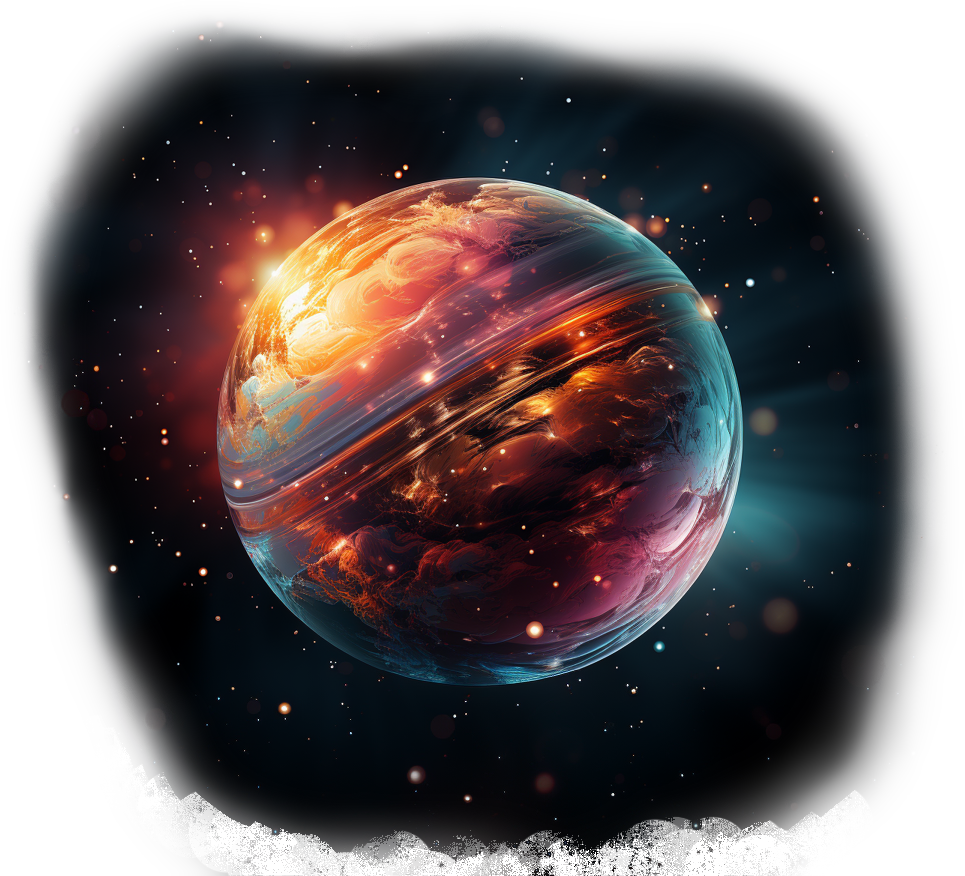
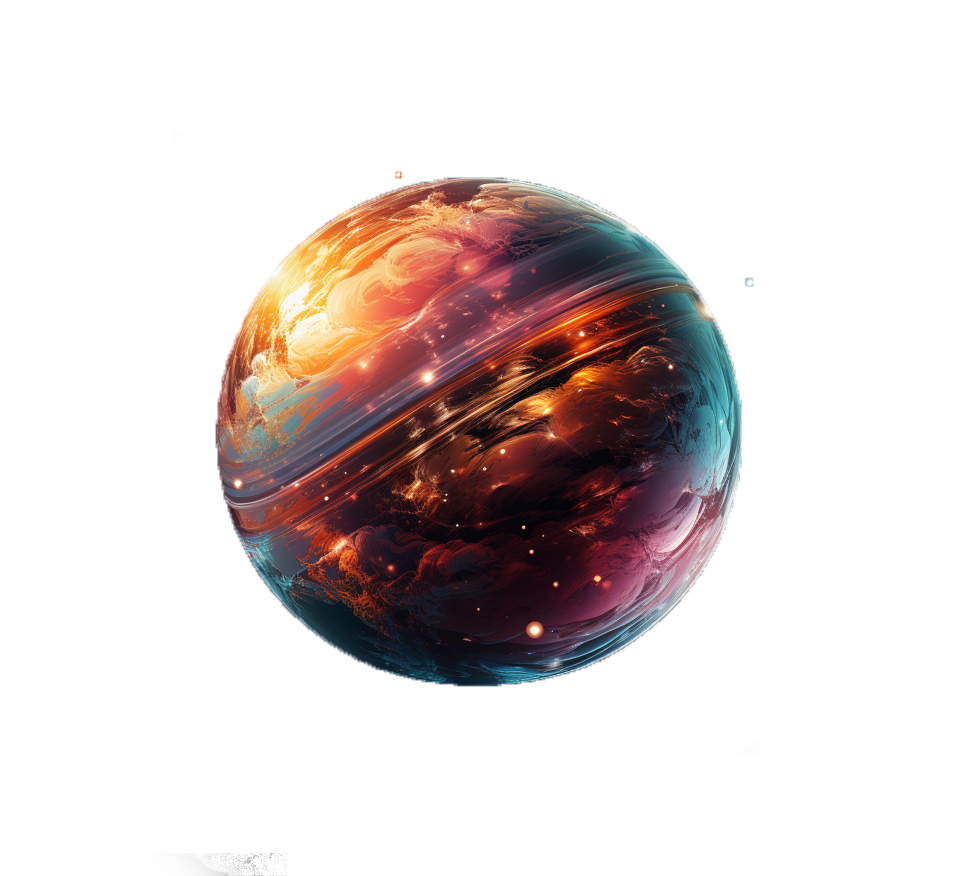
add parralaxe dynam + generic planet rotation

diff --git a/src/components/starrySky/StarrySky.js b/src/components/starrySky/StarrySky.js
@@ -3,7 +3,9 @@ import "./StarrySky.css";
 import "./letterPositions.css";
 import { gsap } from "gsap";
 
-import starrySkyBg from "./assets/starrySkyBg.jpg";
+import starrySkyBg from "./assets/starrySkyBg.png";
+import ParallaxElement from "../ParallaxElements/ParallaxElements.js";
+import { ScrollTrigger } from "gsap/ScrollTrigger";
 
 import scrumS from "./assets/letters/scrumS.png";
 import scrumC from "./assets/letters/scrumC.png";
@@ -33,6 +35,12 @@ import planet2 from "./assets/planets/planet2.png";
 import planet3 from "./assets/planets/planet3.png";
 import planet4 from "./assets/planets/planet4.png";
 import planet5 from "./assets/planets/planet5.png";
+import planet6 from "./assets/planets/planet6.png";
+import planet7 from "./assets/planets/planet7.png";
+import planet8 from "./assets/planets/planet8.png";
+import planet9 from "./assets/planets/planet9.png";
+import planet10 from "./assets/planets/planet10.png";
+import planet11 from "./assets/planets/planet11.png";
 import cloudsBigPlanet from "./assets/planets/cloudsBigPlanet.png";
 
 import rings1 from "./assets/rings1.png";
@@ -44,6 +52,8 @@ console.log("starrySky.js loaded");
 
 const StarrySky = () => {
   useEffect(() => {
+    gsap.registerPlugin(ScrollTrigger);
+
     const asteroidAnimations = [
       { className: ".asteroides1", duration: 50 },
       { className: ".asteroides2", duration: 15 },
@@ -71,30 +81,43 @@ const StarrySky = () => {
           gsap.set(`${animation.className}-clone`, { x: "0vw" });
         },
       });
-
-      // Pour les nuages
-      // Durée de l'animation pour les nuages
-      const cloudsDuration = 10; // Ajustez selon votre besoin
-
-      // const animateClouds = (className) => {
-      //   gsap.to(className, {
-      //     x: `+=100%`,
-      //     repeat: -1,
-      //     ease: "none",
-      //     duration: cloudsDuration,
-      //   });
-      // };
-
-      // animateClouds(".cloudsBigPlanet");
-      // animateClouds(".cloudsBigPlanet-leftClone");
-      // animateClouds(".cloudsBigPlanet-rightClone");
     });
 
+    // GSAP animation for bigPlanet
     gsap.to(".bigPlanet", {
-      rotation: 360,
-      repeat: -1,
-      ease: "none",
-      duration: 120,
+      y: "-70%",
+      scrollTrigger: {
+        trigger: ".bigPlanet",
+        start: "top bottom",
+        end: "bottom center",
+        scrub: true, // Activer l'effet de défilement en douceur
+      },
+    });
+
+    // Associez chaque planète à sa vitesse de rotation en utilisant un objet
+    const rotationSpeeds = {
+      planet1: 5,
+      planet2: 5,
+      planet3: 5,
+      planet4: 5,
+      planet5: 5,
+      planet6: 5,
+      planet7: 5,
+      planet8: 5,
+      planet9: 5,
+      planet10: 5,
+      planet11: 5,
+      bigPlanet: 50,
+    };
+
+    // GSAP animation de rotation pour les planètes
+    Object.entries(rotationSpeeds).forEach(([planet, rotationSpeed]) => {
+      gsap.to(`.${planet}`, {
+        rotation: 360,
+        duration: rotationSpeed,
+        repeat: -1,
+        ease: "linear",
+      });
     });
   }, []);
 
@@ -114,9 +137,20 @@ const StarrySky = () => {
 
   const asteroides = [asteroides1, asteroides2, asteroides3];
   const asteroidesClones = [asteroides1, asteroides2, asteroides3];
-
   const blackholes = [blackhole1, blackhole2, blackhole3];
-  const planets = [planet1, planet2, planet3, planet4, planet5];
+  const planets = [
+    planet1,
+    planet2,
+    planet3,
+    planet4,
+    planet5,
+    planet6,
+    planet7,
+    planet8,
+    planet9,
+    planet10,
+    planet11,
+  ];
   const rings = [rings1, rings2, rings3, rings4];
 
   return (
@@ -179,9 +213,8 @@ const StarrySky = () => {
           alt=""
         />
       ))}
-      <div className="bigPlanetWrapper">
-        <img key={`bigPlanet`} className={`bigPlanet`} src={bigPlanet} alt="" />
-        {/* <img
+      <img className="bigPlanet" src={bigPlanet} alt="" />
+      {/* <img
           key="cloudsBigPlanet"
           className="cloudsBigPlanet"
           src={cloudsBigPlanet}
@@ -199,7 +232,6 @@ const StarrySky = () => {
           src={cloudsBigPlanet}
           alt=""
         /> */}
-      </div>
     </div>
   );
 };

diff --git a/src/components/starrySky/StarrySky.css b/src/components/starrySky/StarrySky.css
@@ -17,11 +17,6 @@
 .blackhole1,
 .blackhole2,
 .blackhole3,
-.planet1,
-.planet2,
-.planet3,
-.planet4,
-.planet5,
 .rings1,
 .rings2,
 .rings3,
@@ -85,10 +80,6 @@
 /* Utilisation d'un sélecteur pour plusieurs classes ayant les mêmes propriétés */
 .blackhole1,
 .blackhole3,
-.planet2,
-.planet3,
-.planet4,
-.planet5,
 .rings1,
 .rings2,
 .rings3,
@@ -99,45 +90,112 @@
     height: auto;
 }
 
-.bigPlanetWrapper {
-    position: absolute;
-    top: 7vw;
-    left: 88vw;
-    width: 13vw;
-    height: 13vw;
-    overflow: hidden;
-    z-index: 2;
-    border-radius: 50%;
-
-}
 
 .bigPlanet {
     position: absolute;
-    top: 0;
-    left: 0;
-    width: 100%;
-    height: auto;
+    top: 44vw;
+    left: 62vw;
+    width: 50vw;
+    height: 50vw;
+    z-index: 5;
+    border-radius: 50%;
+}
+
+.planet1 {
+    position: absolute;
+    top: 8vw;
+    left: 77vw;
+    width: 6vw;
+    height: 6vw;
     z-index: 1;
 }
 
-/* .cloudsBigPlanet,
-.cloudsBigPlanet-leftClone,
-.cloudsBigPlanet-rightClone {
+.planet2 {
     position: absolute;
-    top: 0;
-    width: 100%;
-    height: auto;
-    z-index: 2;
+    top: 10vw;
+    left: 3vw;
+    width: 4vw;
+    height: 4vw;
+    z-index: 1;
 }
 
-.cloudsBigPlanet {
-    left: 0;
+.planet3 {
+    position: absolute;
+    top: 43vw;
+    left: 70vw;
+    width: 4vw;
+    height: 4vw;
+    z-index: 1;
 }
 
-.cloudsBigPlanet-leftClone {
-    left: -100%;
+.planet4 {
+    position: absolute;
+    top: 34vw;
+    left: 10vw;
+    width: 6vw;
+    height: 6vw;
+    z-index: 1;
 }
 
-.cloudsBigPlanet-rightClone {
-    left: 100%;
-} */
+.planet5 {
+    position: absolute;
+    top: 122vw;
+    left: 28vw;
+    width: 12vw;
+    height: 12vw;
+    z-index: 1;
+}
+
+.planet6 {
+    position: absolute;
+    top: 100vw;
+    left: 60vw;
+    width: 8vw;
+    height: 8vw;
+    z-index: 1;
+}
+
+.planet7 {
+    position: absolute;
+    top: 58vw;
+    left: 10vw;
+    width: 7vw;
+    height: 7vw;
+    z-index: 1;
+}
+
+.planet8 {
+    position: absolute;
+    top: 101vw;
+    left: 21vw;
+    width: 10vw;
+    height: 10vw;
+    z-index: 1;
+}
+
+.planet9 {
+    position: absolute;
+    top: 120vw;
+    left: 60vw;
+    width: 9vw;
+    height: 9vw;
+    z-index: 1;
+}
+
+.planet10 {
+    position: absolute;
+    top: 103vw;
+    left: 32vw;
+    width: 4vw;
+    height: 4vw;
+    z-index: 1;
+}
+
+.planet11 {
+    position: absolute;
+    top: 66vw;
+    left: 17vw;
+    width: 20vw;
+    height: 20vw;
+    z-index: 1;
+}
